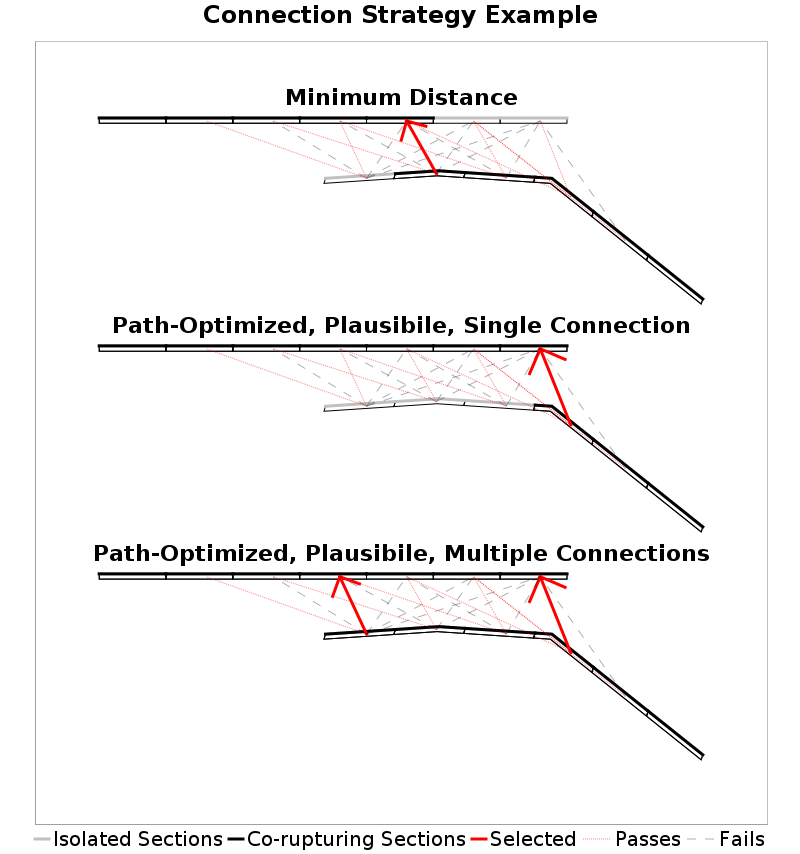
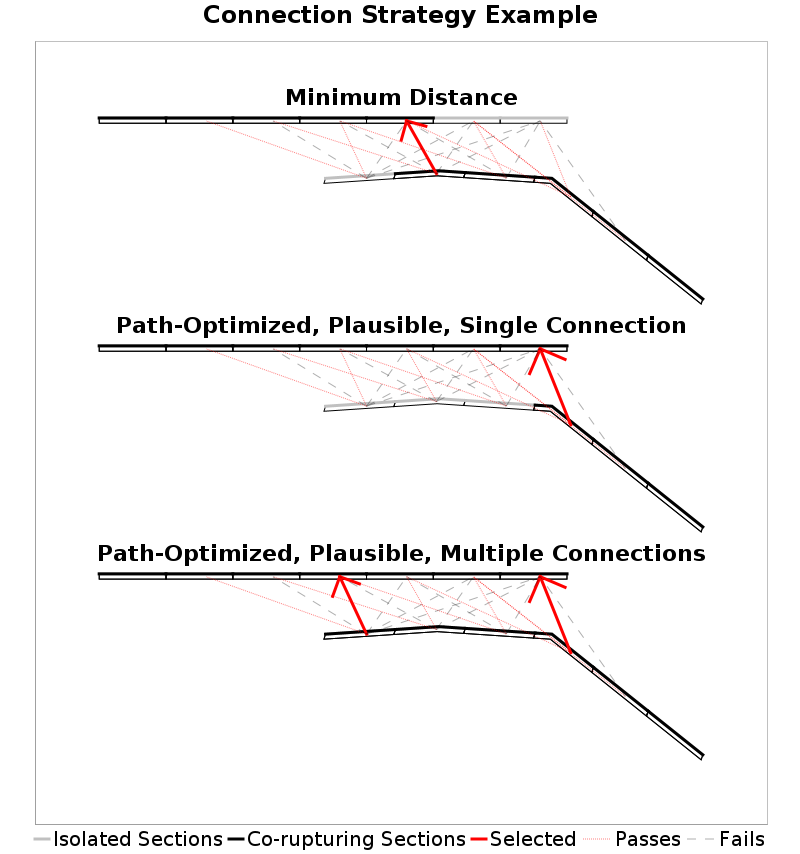
fixed typo

Changed region(s): [[0.0938, 0.6393, 0.9062, 0.6698], [0.125, 0.3653, 0.875, 0.3958]]

diff --git a/src/org/opensha/sha/earthquake/faultSysSolution/ruptures/util/RupCartoonGenerator.java b/src/org/opensha/sha/earthquake/faultSysSolution/ruptures/util/RupCartoonGenerator.java
@@ -1337,11 +1337,11 @@ public class RupCartoonGenerator {
 		
 		connStrats.add(new PlausibleClusterConnectionStrategy(rupBuild.subSectsList, distAzCalc, maxDist, singleSelect, filters));
 		connPrefixes.add("conn_plausible_single");
-		connTitles.add("Path-Optimized, Plausibile, Single Connection");
+		connTitles.add("Path-Optimized, Plausible, Single Connection");
 		
 		connStrats.add(new PlausibleClusterConnectionStrategy(rupBuild.subSectsList, distAzCalc, maxDist, multiSelect, filters));
 		connPrefixes.add("conn_plausible_multi");
-		connTitles.add("Path-Optimized, Plausibile, Multiple Connections");
+		connTitles.add("Path-Optimized, Plausible, Multiple Connections");
 		
 		List<Jump> allPossibleJumps = new ArrayList<>();
 		PlausibleClusterConnectionStrategy all = new PlausibleClusterConnectionStrategy(rupBuild.subSectsList, distAzCalc, maxDist, allSelect, filters);
@@ -2368,7 +2368,7 @@ public class RupCartoonGenerator {
 				for (XY_DataSet xy : negFuncs.get(patch))
 					funcCharPairs.add(new Object[] { xy, negChar });
 			System.out.println("combined down to "+funcCharPairs.size()+" functions");
-			Collections.shuffle(funcCharPairs);
+			Collections.shuffle(funcCharPairs, new Random(funcCharPairs.size()));
 			
 			double val = aggCalc.calc(rupSects, rupSects);
 			long numPositive = (long)(val*numInts);
